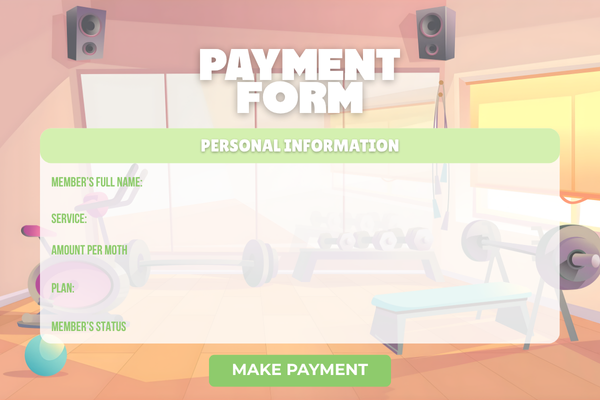
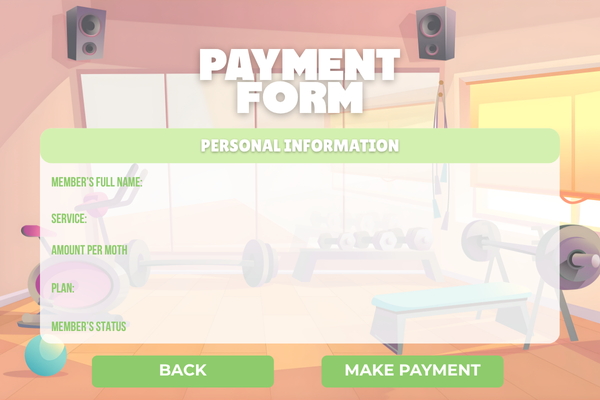
Payment form no logic yet

Changed region(s): [[0.15, 0.87, 0.84, 0.99]]

diff --git a/src/main/java/com/gymdb/controller/PaymentFormController.java b/src/main/java/com/gymdb/controller/PaymentFormController.java
@@ -1,47 +1,96 @@
 package com.gymdb.controller;
 
+import javafx.event.ActionEvent;
 import javafx.fxml.FXML;
+import javafx.fxml.FXMLLoader;
+import javafx.scene.Node;
+import javafx.scene.Parent;
+import javafx.scene.Scene;
+import javafx.scene.control.Alert;
 import javafx.scene.control.Button;
 import javafx.scene.control.TextField;
+import javafx.stage.Stage;
+
+import java.io.IOException;
 
 public class PaymentFormController {
-
-    @FXML
-    private Button makepaymentBtn;
 
     @FXML
     private TextField fullName;
 
     @FXML
-    private TextField fullName1;
-
-    @FXML
-    private TextField fullName11;
-
-    @FXML
-    private TextField fullName111;
+    private TextField service;
 
     @FXML
     private TextField amountPerMonth;
 
     @FXML
-    private void makePayment() {
-        // Example: retrieve field values
-        String name = fullName.getText();
-        String field1 = fullName1.getText();
-        String field2 = fullName11.getText();
-        String field3 = fullName111.getText();
-        String amount = amountPerMonth.getText();
+    private TextField plan;
 
-        // For now, just print them
-        System.out.println("=== Payment Form Data ===");
-        System.out.println("Full Name: " + name);
-        System.out.println("Field 1: " + field1);
-        System.out.println("Field 2: " + field2);
-        System.out.println("Field 3: " + field3);
-        System.out.println("Amount per month: " + amount);
+    @FXML
+    private TextField memberStatus;
 
-        // TODO: Add your actual payment logic here
+    @FXML
+    private Button makepaymentBtn;
+
+    @FXML
+    private Button backBtn;
+
+    // Called when the "Make Payment" button is pressed
+    @FXML
+    private void makePayment(ActionEvent event) {
+        String name = fullName.getText().trim();
+        String selectedService = service.getText().trim();
+        String amount = amountPerMonth.getText().trim();
+        String selectedPlan = plan.getText().trim();
+        String status = memberStatus.getText().trim();
+
+        // Simple validation
+        if (name.isEmpty() || selectedService.isEmpty() || amount.isEmpty() || selectedPlan.isEmpty() || status.isEmpty()) {
+            showAlert(Alert.AlertType.WARNING, "Missing Information", "Please fill out all fields before making payment.");
+            return;
+        }
+
+        // (Optional) Validate that amount is numeric
+        try {
+            Double.parseDouble(amount);
+        } catch (NumberFormatException e) {
+            showAlert(Alert.AlertType.ERROR, "Invalid Amount", "Please enter a valid numeric amount.");
+            return;
+        }
+
+        // Simulate a successful payment
+        showAlert(Alert.AlertType.INFORMATION, "Payment Successful",
+                "Payment has been successfully processed for " + name + " (" + selectedPlan + " Plan).");
+
+        // Clear fields after payment
+        clearFields();
+    }
+
+    // Called when the "Back" button is pressed
+
+    @FXML
+    private void handleBack(ActionEvent event) throws IOException {
+        Parent root = FXMLLoader.load(getClass().getResource("/fxmls/MainMenu.fxml"));
+        Stage stage = (Stage) ((Node) event.getSource()).getScene().getWindow();
+        stage.setScene(new Scene(root));
+        stage.show();
+    }
+    // Utility method for showing alerts
+    private void showAlert(Alert.AlertType type, String title, String message) {
+        Alert alert = new Alert(type);
+        alert.setTitle(title);
+        alert.setHeaderText(null);
+        alert.setContentText(message);
+        alert.showAndWait();
+    }
+
+    // Clears all text fields
+    private void clearFields() {
+        fullName.clear();
+        service.clear();
+        amountPerMonth.clear();
+        plan.clear();
+        memberStatus.clear();
     }
 }
-

diff --git a/src/main/java/module-info.java b/src/main/java/module-info.java
@@ -2,6 +2,7 @@ module com.example.dbapp {
     requires javafx.controls;
     requires javafx.fxml;
     requires java.sql;
+    requires javafx.graphics;
 
     opens com.gymdb.model to javafx.fxml;
 
